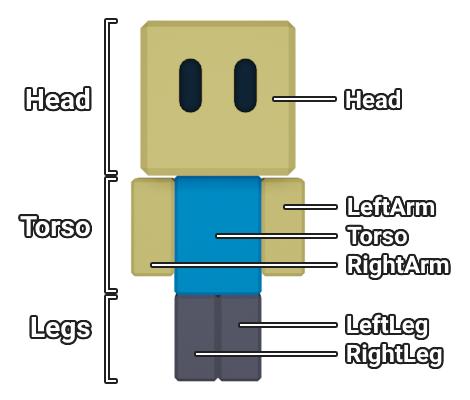
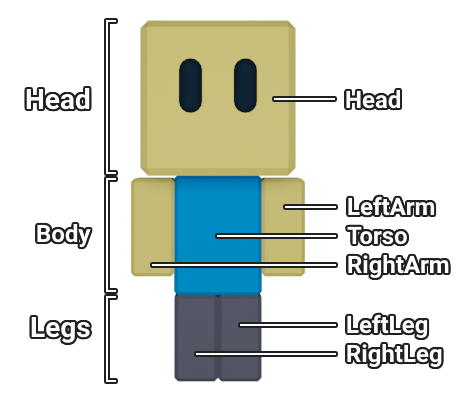
update costume spec

Changed region(s): [[0.0298, 0.51, 0.2085, 0.63]]

diff --git a/docs/costume_spec.md b/docs/costume_spec.md
@@ -1,43 +1,44 @@
 # Costume Specification
 
-This specification codifies the creation and importing of a costume. It is underpinned by two constraints:
-
-1. Reused meshes should use the originally imported mesh
-2. Reuse textures whenever possible
-
-These stem from the memory limitations of mobile hardware; the importance of reducing texture and mesh memory cannot be overstated.
-
-## General Information
-A costume is a set of textured meshes that are welded to the character. A costume is composed of 3 sections: Head, Torso, and Legs. Each section contains meshes that are welded to specific body parts of the character.
+A costume is a set of textured meshes that are welded to the character. A costume is composed of 3 sections: Head, Body, and Legs. Each section contains meshes that are welded to specific body parts of the character.
 
 | Costume section | Character body parts |
 | --- | --- |
 | Head | Head |
-| Torso | LeftArm, RightArm, Torso |
+| Body | LeftArm, RightArm, Torso |
 | Legs | LeftLeg, RightLeg|
 
-![starter character](../img/starter_character.png)
+![starter character](img/starter_character.png)
 
 Players can mix and match the 3 sections of any costumes they own.
 
-### Variations
-A costume can have multiple variations. A variation can be entirely unique or consist of a mix of unique/reused meshes and unique/reused textures. Consider these two variations of a Pirate costume. Patchy has a unique head mesh and reused torso and leg meshes from Crewmate. Patchy also has entirely unique textures.
+!!! note
+	A costume does not need a unique mesh for each body part. Consider the Snorkeler costume whose bathing suit does not cover the arms. In this case, the default arm meshes will be used.
 
-![pirates](../img/pirates.png)
+## Variations
+A costume can have multiple variations. A variation can be entirely unique or consist of a mix of unique and reused meshes and textures.
 
-In the case where a mesh or texture is reused, that mesh or texture will not be re-uploaded to Roblox.
+!!! example
+	Cremate and Patchy are two variations of the Pirate costume. Patchy has a unique head mesh but reuses the body and leg meshes of Crewmate. Crewmate and Patchy both have unique textures.
+
+	![pirates](img/pirates.png)
+
 !!! warning
-	Because reused meshes are not re-uploaded, variations are stuck with the UV map of the original mesh. Keep this in mind when you are creating the variation's texture.
+	If a costume reuses a mesh, you should be cautious of altering its UV map -- try to make your desired texture work with the original UV map first. If it doesn't work, then you are free to alter the UV map.
+	
+	Preserving the original UV map is important because a mesh with an altered UV map must be re-uploaded to Roblox, which takes up extra memory on the client.
 
-### Eyes
-Costumes cannot have their own eye meshes because we will use a separate eye animation system for facial expressions that react to the game. However, costumes can specify the 2D location of each eye and which eyes to hide. For example, Crewmate has its left eye hidden and Patchy has both eyes hidden. Also, Crewmate has its right eye shifted down because the pirate hat covers the eye in the default position.
+## Eyes
+Costumes cannot have their own eye meshes because we will use a separate eye system for animated expressions. However, costumes can specify the visibility and 2D location of each eye.
 
-### Skin
+!!! example
+	Crewmate has its left eye hidden and Patchy has both eyes hidden. Also, Crewmate has its right eye shifted down because the pirate hat covers the eye in the default position.
+## Skin
 Humanoid costumes (ex. pirate, chef, miner) have skin exposed. It is important that players be able to customize their skin color. To accomplish this, map the UV islands of skin faces to a transparent pixel. This will allow for the color of the underlying Roblox object to show through, which will be the player's skin color.
 ## Texturing
-We are aiming for a style with a small number of solid colors per character. This means that textures should only be a few pixels wide and tall.
+In general, we are aiming for a style with a low amount of colors per character. Therefore, textures should only be a few pixels wide and tall. This is not a steadfast rule, however, so do not let it compromise your artistic vision.
 
-## Process
+## Costume pipeline
 1. Modeler creates the costume
 2. Modeler organizes the file to follow this specification
 3. Modeler uploads the file to the drive
@@ -46,28 +47,34 @@ We are aiming for a style with a small number of solid colors per character. Thi
 6. Programmer imports the unique meshes and textures of the costume
 7. Programmer incorporates the metadata, meshes, and textures into the game
 
-## Naming
-1. Name the file `[Costume]_[Variation]_Costume.blend`. *(ex: Pirate_Blackbeard_Costume.blend)*
-2. Put the unaltered rig in a `Rig` collection. Hide or delete any of the limbs that you don’t need. *(ex: Pirate doesn’t need the left leg because it would cover the peg leg)*
-	* These meshes will not be imported to Roblox but are helpful in previewing the costume in full context.
-3. Put the costume meshes in a `[Costume]_[Variation]` collection. *(ex: Pirate_Blackbeard)*
-4. For each of the 6 body parts:
-	* If only one mesh corresponds to a body part, name it `$[BodyPart]`. *(ex: $LeftLeg)*
-	* If multiple objects correspond to the same body part, put them in a collection named `[BodyPart]`. Name each object in this sub-collection
-		`$[BodyPart]_[MeshName]`. *(ex: $Head_Eyepatch)*
-	* The $ signs are to differentiate the costume meshes from the rig meshes.
-5. Name every vertex object the same as its mesh name.
-	* Not sure if this is necessary. I will figure it out.
-6. Set every object’s pivot to its corresponding body part’s pivot.
-	* This is necessary. If you stick to the naming conventions, I can write a script to automate this step.
-7. Put the Rig eyes in an `Eyes` collection in the `[Costume]_[Variation]` collection. Position them as you please. Delete any unneeded eyes *(ex: Crewmate doesn’t have a left eye due to the eye patch)*. If no eyes are needed, don’t create the `Eyes` collection.
+## Naming requirements
+1. Name the blend file `[Costume]_[Variation]_Costume`. *(ex: Pirate_Blackbeard_Costume.blend)*
+1. Put the unaltered rig in a `Rig` collection. Keep the default body parts that the costume does not override; delete the rest. *(ex: Snorkeler wears a bathing suit that doesn't alter the arms, so they are kept)*
+	* Prefix the name of each default body part mesh with `Rig`. This is to differentiate them from costume meshes.
+	* These meshes will not be imported to Roblox but are helpful in previewing the full costume.
+1. Put the costume meshes in a `[Costume]_[Variation]` collection. *(ex: Pirate_Blackbeard)*
+1. For each of the 6 body parts:
+	* If only one mesh corresponds to a body part, name it `[BodyPart]`. *(ex: LeftLeg)*
+	* If multiple objects correspond to the same body part, put them in a collection named `[BodyPart]`. Name each object in this sub-collection `[BodyPart]_[MeshName]`. *(ex: Head_Eyepatch)*
+1. Set each mesh's pivot to its corresponding body part’s pivot.
+	* This is necessary. If you stick to the naming conventions, I can write a script to automate this step. Until then, you will have to do it manually.
+1. Put the rig's default eyes in an `Eyes` collection under the `[Costume]_[Variation]` collection. Position them on the head as you please. Delete any unneeded eyes. If no eyes are needed, you do not need the `Eyes` collection.
+
+### Example: Pirate_Patchy_Costume.blend
+
+=== "Example"
+	![patchy](img/patchy.png)![patchy example](img/costume_example.png)
+
+=== "Highlighted"
+	![patchy highlighted](img/patchy_highlighted.png)![patchy example highlighted](img/costume_example_highlighted.png)
+
 ## Metadata
 For transparency between modelers and programmers, here is the metadata that will be stored for each costume in-game.
 
 | Category | Variable | Value type | Required |
 | --- | --- | --- | :---: |
-| | CostumeName | string | ✓ |
-| | VariationName | string | ✓ |
+| | CostumeName | string | ✔ |
+| | VariationName | string | ✔ |
 | Head | | |
 | | HeadHidden | boolean |
 | | HeadMeshId | rbxassetid |
@@ -79,7 +86,7 @@ For transparency between modelers and programmers, here is the metadata that wil
 | | RightLegHidden | boolean |
 | | RightLegMeshId | rbxassetid |
 | | RightLegTextureID | rbxassetid |
-| Torso | | |
+| Body | | |
 | | LeftArmHidden | boolean |
 | | LeftArmMeshId | rbxassetid |
 | | LeftArmTextureId | rbxassetid |
